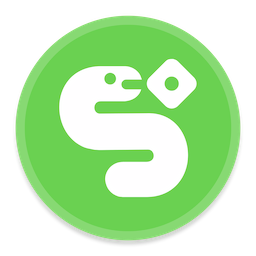
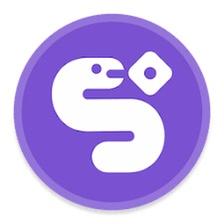
changed snake color and menu color

diff --git a/src/main/java/view/ElementGraphics.java b/src/main/java/view/ElementGraphics.java
@@ -30,7 +30,7 @@ public abstract class ElementGraphics {
     }
 
     private static void drawBody(JComponent container, Graphics2D g2d, Body body) {
-        g2d.setColor(Color.GREEN.darker());
+        g2d.setColor(new Color(151,123,186).darker());
         g2d.setStroke(new BasicStroke(BODY_STROKE));
         g2d.drawRoundRect(BODY_STROKE, BODY_STROKE, container.getWidth() - 2 * BODY_STROKE, container.getHeight()- 2 * BODY_STROKE, BODY_ARC_RADIUS, BODY_ARC_RADIUS);
     }

diff --git a/src/main/java/view/MenuPanel.java b/src/main/java/view/MenuPanel.java
@@ -13,6 +13,8 @@ public class MenuPanel extends SPanel {
         snakeLabel.setFont(new Font("Arial", Font.BOLD, 50));
 
         JButton startButton = new JButton("Start");
+        startButton.setBackground(new Color(151,123,186));
+        startButton.setForeground(Color.BLACK);
         startButton.addActionListener(e -> {
             if (eventListener != null) eventListener.startButtonPressed();
         });
